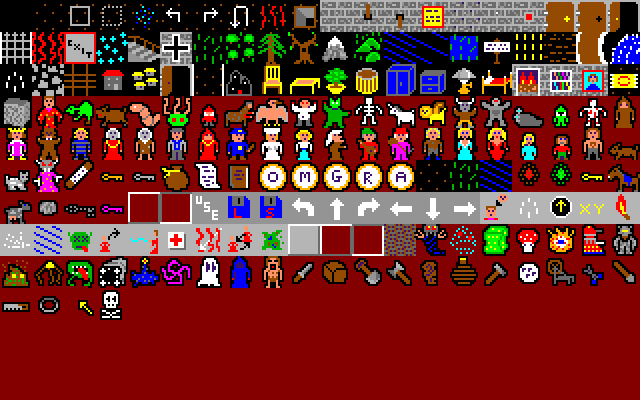
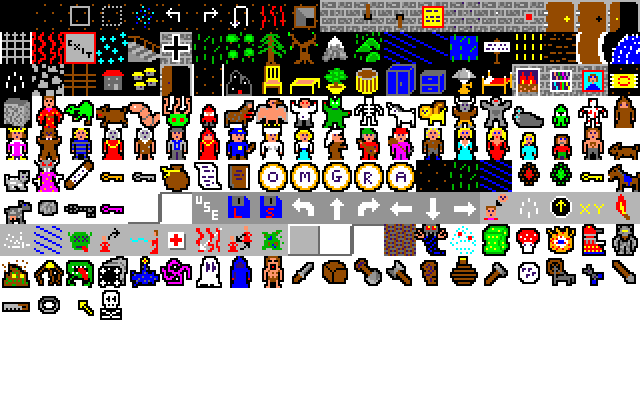
Add tiles

diff --git a/core/src/mindmelt/game/MindmeltGDX.java b/core/src/mindmelt/game/MindmeltGDX.java
@@ -5,20 +5,23 @@ import com.badlogic.gdx.Gdx;
 import com.badlogic.gdx.assets.AssetManager;
 import com.badlogic.gdx.audio.Music;
 import com.badlogic.gdx.graphics.Texture;
+import com.badlogic.gdx.graphics.g2d.BitmapFont;
 import com.badlogic.gdx.graphics.g2d.SpriteBatch;
-import com.badlogic.gdx.scenes.scene2d.Stage;
+import com.badlogic.gdx.graphics.g2d.TextureRegion;
 import com.badlogic.gdx.scenes.scene2d.ui.Skin;
 import mindmelt.game.screens.StartScreen;
 
 public class MindmeltGDX extends Game {
 	public AssetManager manager;
 	public SpriteBatch batch;
-	public Texture img, startScreen;
-	public Stage stage;
+	public Texture tileImages, startScreen;
+    public TextureRegion[][] tile;
 	public Skin skin;
+	public BitmapFont font;
 	
 	@Override
 	public void create () {
+        font = new BitmapFont();
         skin = new Skin(Gdx.files.internal("uiskin.json"));
 
 		batch = new SpriteBatch();
@@ -27,7 +30,9 @@ public class MindmeltGDX extends Game {
 		manager.load("uiskin.json", Skin.class);
 		manager.finishLoading();
 
-		img = new Texture("badlogic.jpg");
+		tileImages = new Texture("tiles.png");
+		tile = TextureRegion.split(tileImages, 32, 32);
+
 		startScreen = new Texture("start.bmp");
 		setScreen(new StartScreen(this));
 	}
@@ -42,12 +47,18 @@ public class MindmeltGDX extends Game {
 	public void dispose () {
 		super.dispose();
 //		batch.dispose();
-		img.dispose();
+		tileImages.dispose();
 		manager.dispose();
 	}
 
 	public void exit() {
 	    dispose();
         System.exit(0);
+    }
+
+    public TextureRegion getTile(int tileId) {
+	    int i = tileId/20;
+	    int j = tileId%20;
+	    return tile[i][j];
     }
 }

diff --git a/core/src/mindmelt/game/screens/PlayScreen.java b/core/src/mindmelt/game/screens/PlayScreen.java
@@ -7,12 +7,15 @@ import com.badlogic.gdx.Screen;
 import com.badlogic.gdx.graphics.GL20;
 import mindmelt.game.MindmeltGDX;
 
+import java.util.Random;
+
 /**
  * Created by David on 27/04/2017.
  */
 public class PlayScreen  implements Screen,InputProcessor {
     private MindmeltGDX game;
     private boolean exitGame;
+    private Random rand;
 
     public PlayScreen(MindmeltGDX game) {
         this.game = game;
@@ -29,8 +32,16 @@ public class PlayScreen  implements Screen,InputProcessor {
     public void render(float delta) {
         Gdx.gl.glClearColor(1, 0, 0, 1);
         Gdx.gl.glClear(GL20.GL_COLOR_BUFFER_BIT);
+        rand = new Random(412294L);
         game.batch.begin();
-        game.batch.draw(game.img, 0, 0);
+        for (int i=0; i<100000; i++) {
+            int id = rand.nextInt(183)+1;
+            int x = rand.nextInt(20);
+            int y = rand.nextInt(16);
+            game.batch.draw(game.getTile(id), x * 32, Gdx.graphics.getHeight() - y * 32);
+        }
+        game.font.draw(game.batch, "fps: " + Gdx.graphics.getFramesPerSecond(), 0, 40);
+
         game.batch.end();
 
         if(exitGame) {

diff --git a/core/src/mindmelt/game/screens/StartScreen.java b/core/src/mindmelt/game/screens/StartScreen.java
@@ -9,6 +9,7 @@ import com.badlogic.gdx.graphics.GL20;
 import com.badlogic.gdx.graphics.g2d.NinePatch;
 import com.badlogic.gdx.scenes.scene2d.InputEvent;
 import com.badlogic.gdx.scenes.scene2d.Stage;
+import com.badlogic.gdx.scenes.scene2d.ui.ImageButton;
 import com.badlogic.gdx.scenes.scene2d.ui.Skin;
 import com.badlogic.gdx.scenes.scene2d.ui.Table;
 import com.badlogic.gdx.scenes.scene2d.ui.TextButton;
@@ -63,8 +64,9 @@ public class StartScreen  implements Screen {
         table.setPosition(0,Gdx.graphics.getHeight());
         table.padTop(200);
         table.add(startGame);
-        table.row().pad(16f);
+        table.row().pad(20);
         table.add(exitGame);
+
 
         stage.addActor(table);
     }
